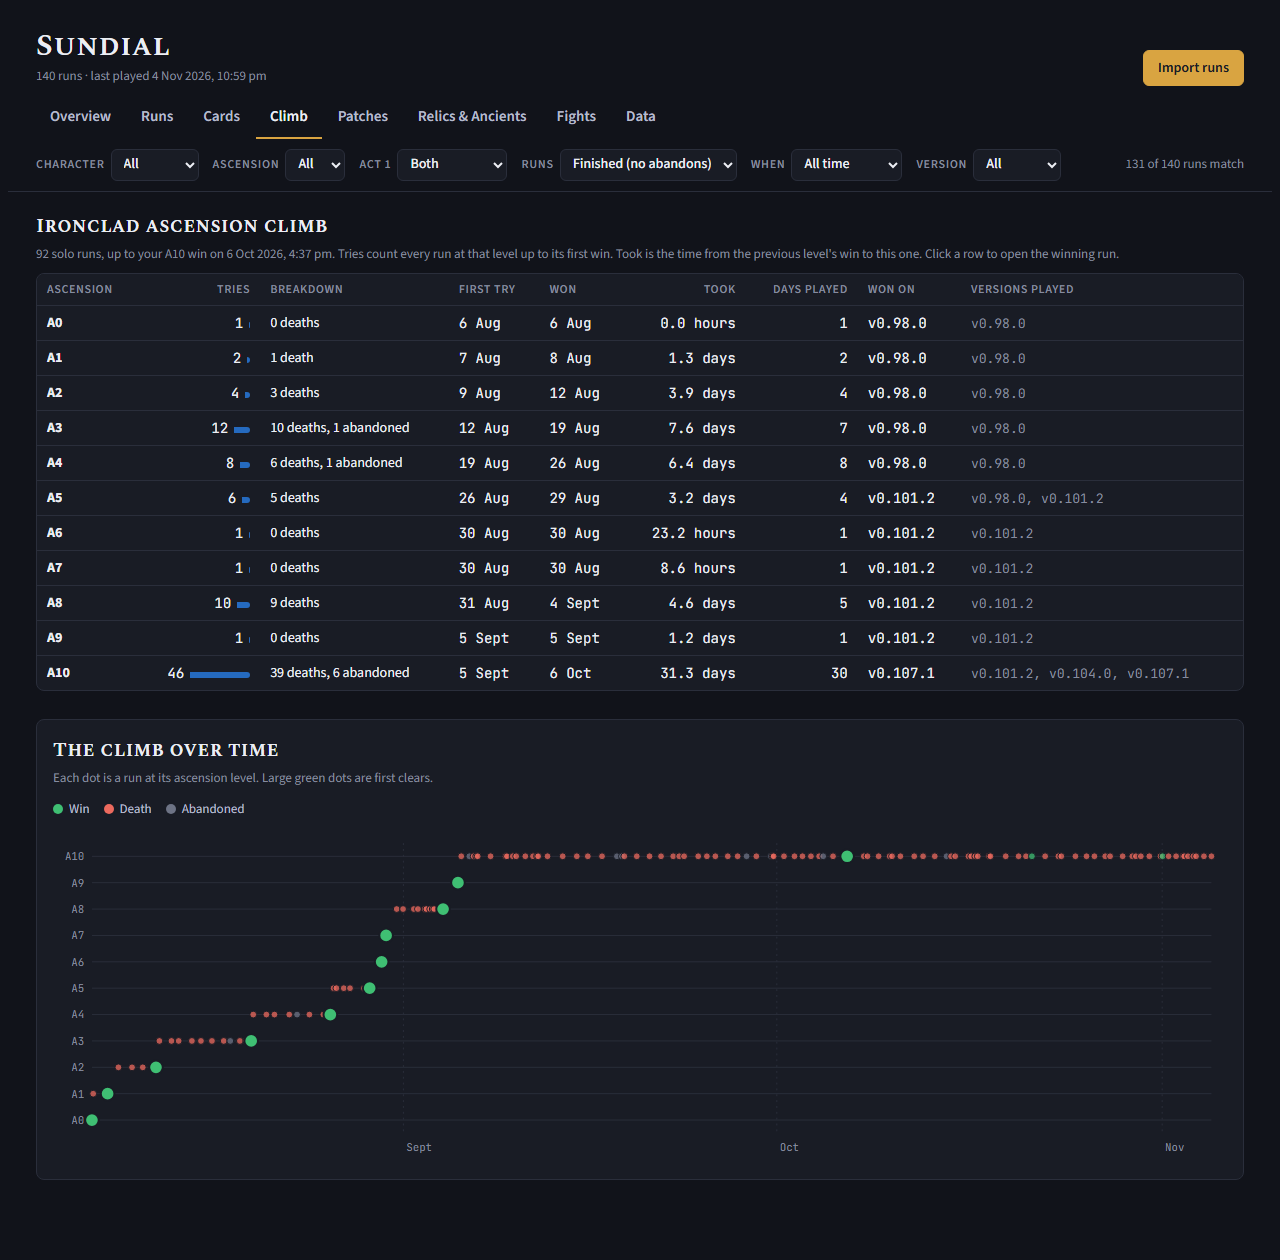
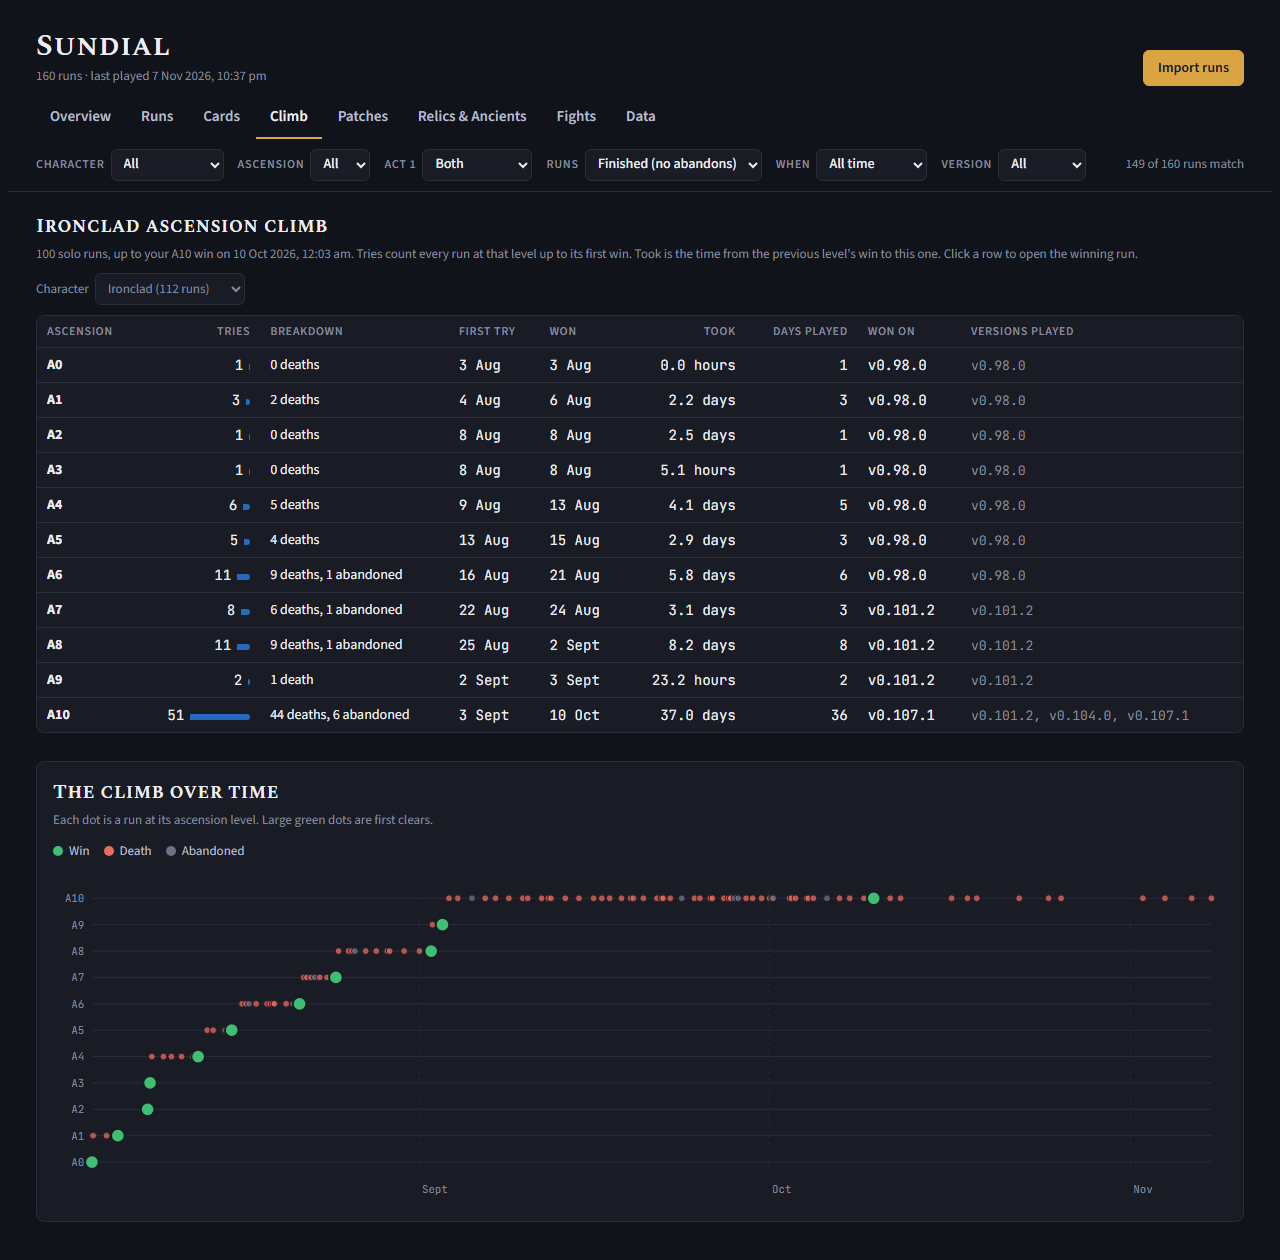
Demo data: add Silent, Defect, Necrobinder and Regent runs
Ironclad climbs to A10, then play shifts mostly to Silent with some of the
others, each with its own ascension. Screenshots retaken.

diff --git a/web/build/demo.py b/web/build/demo.py
@@ -5,7 +5,12 @@ Takes the fixture runs in tests/fixtures/history and varies them: dates over abo
 as runs are won, game builds by date, and deaths cut at a fight with that encounter as the killer. No real player
 data is used beyond the three fixtures already in the repo.
 
-usage: python web/build/demo.py <out dir> [count]     (default 140 runs, fixed seed so output is repeatable)
+The story: Ironclad climbs to A10 (with the odd try of another character), then play shifts mostly to Silent, with
+some Defect, Necrobinder and Regent. Each character has its own ascension. The fixtures are all Ironclad, so other
+characters get their own starter Strike/Defend ids but otherwise keep Ironclad cards; that only shows when you open
+one of those runs, so screenshot an Ironclad run for the run detail.
+
+usage: python web/build/demo.py <out dir> [count]     (default 160 runs, fixed seed so output is repeatable)
 Then:  node web/build/embed.js web/build/demo-runs.json <out dir>:demo
        python web/build/build.py --data web/build/demo-runs.json --out sundial-demo.html
 """
@@ -14,7 +19,7 @@ import copy, json, pathlib, random, sys
 root = pathlib.Path(__file__).resolve().parents[2]
 fixtures = root / 'tests/fixtures/history'
 out = pathlib.Path(sys.argv[1]); out.mkdir(parents=True, exist_ok=True)
-count = int(sys.argv[2]) if len(sys.argv) > 2 else 140
+count = int(sys.argv[2]) if len(sys.argv) > 2 else 160
 rng = random.Random(2026)
 
 runs = [json.loads(p.read_text(encoding='utf-8')) for p in sorted(fixtures.glob('*.run'))]
@@ -40,10 +45,28 @@ def fights(run: dict) -> list[tuple[int, dict]]:
     return [(i, pt) for i, pt in enumerate(pts) if pt.get('rooms') and pt['rooms'][0].get('room_type') in ('monster', 'elite', 'boss')]
 
 
-asc, wins_at_asc, start = 0, 0, 1786000000                    # mid-Aug 2026
+def pick_character(ironclad_done: bool) -> str:
+    if not ironclad_done:
+        return rng.choices(['IRONCLAD', 'SILENT', 'DEFECT'], [92, 5, 3])[0]
+    return rng.choices(['IRONCLAD', 'SILENT', 'DEFECT', 'NECROBINDER', 'REGENT'], [28, 46, 14, 6, 6])[0]
+
+
+def recolour(run: dict, char: str) -> None:
+    p = run['players'][0]
+    p['character'] = f'CHARACTER.{char}'
+    for c in p['deck']:
+        c['id'] = c['id'].replace('_IRONCLAD', f'_{char}')
+
+
+ascs = {c: 0 for c in ('IRONCLAD', 'SILENT', 'DEFECT', 'NECROBINDER', 'REGENT')}
+ironclad_done = False                                         # set once Ironclad wins at A10
+start = 1785740000                                            # early Aug 2026
 for i in range(count):
     start += rng.randint(2 * 3600, 30 * 3600)
-    p_win = max(0.04, 0.42 - asc * 0.042)
+    char = pick_character(ironclad_done) if i else 'IRONCLAD'
+    asc = ascs[char]
+    # other characters climb a bit faster: the player already knows the game
+    p_win = max(0.04, (0.42 if char == 'IRONCLAD' else 0.55) - asc * 0.042)
     roll = rng.random()
     if roll < p_win:
         run = copy.deepcopy(winner)
@@ -61,6 +84,7 @@ for i in range(count):
         run.update(win=False, was_abandoned=False, killed_by_encounter=pt['rooms'][0]['model_id'], killed_by_event='NONE.NONE')
         if rng.random() < 0.07:                               # the odd abandoned run
             run.update(was_abandoned=True, killed_by_encounter='NONE.NONE')
+    recolour(run, char)
     floors = sum(len(a) for a in run['map_point_history'])
     run.update(
         ascension=asc,
@@ -71,8 +95,9 @@ for i in range(count):
     )
     (out / f'{start}.run').write_text(json.dumps(run), encoding='utf-8')
     if run['win']:
-        wins_at_asc += 1
         if asc < 10:
-            asc, wins_at_asc = asc + 1, 0
+            ascs[char] = asc + 1
+        elif char == 'IRONCLAD':
+            ironclad_done = True
 
-print(count, 'demo runs in', out, '- reached ascension', asc)
+print(count, 'demo runs in', out, '- ascension reached:', ', '.join(f'{c.title()} A{a}' for c, a in ascs.items()))
